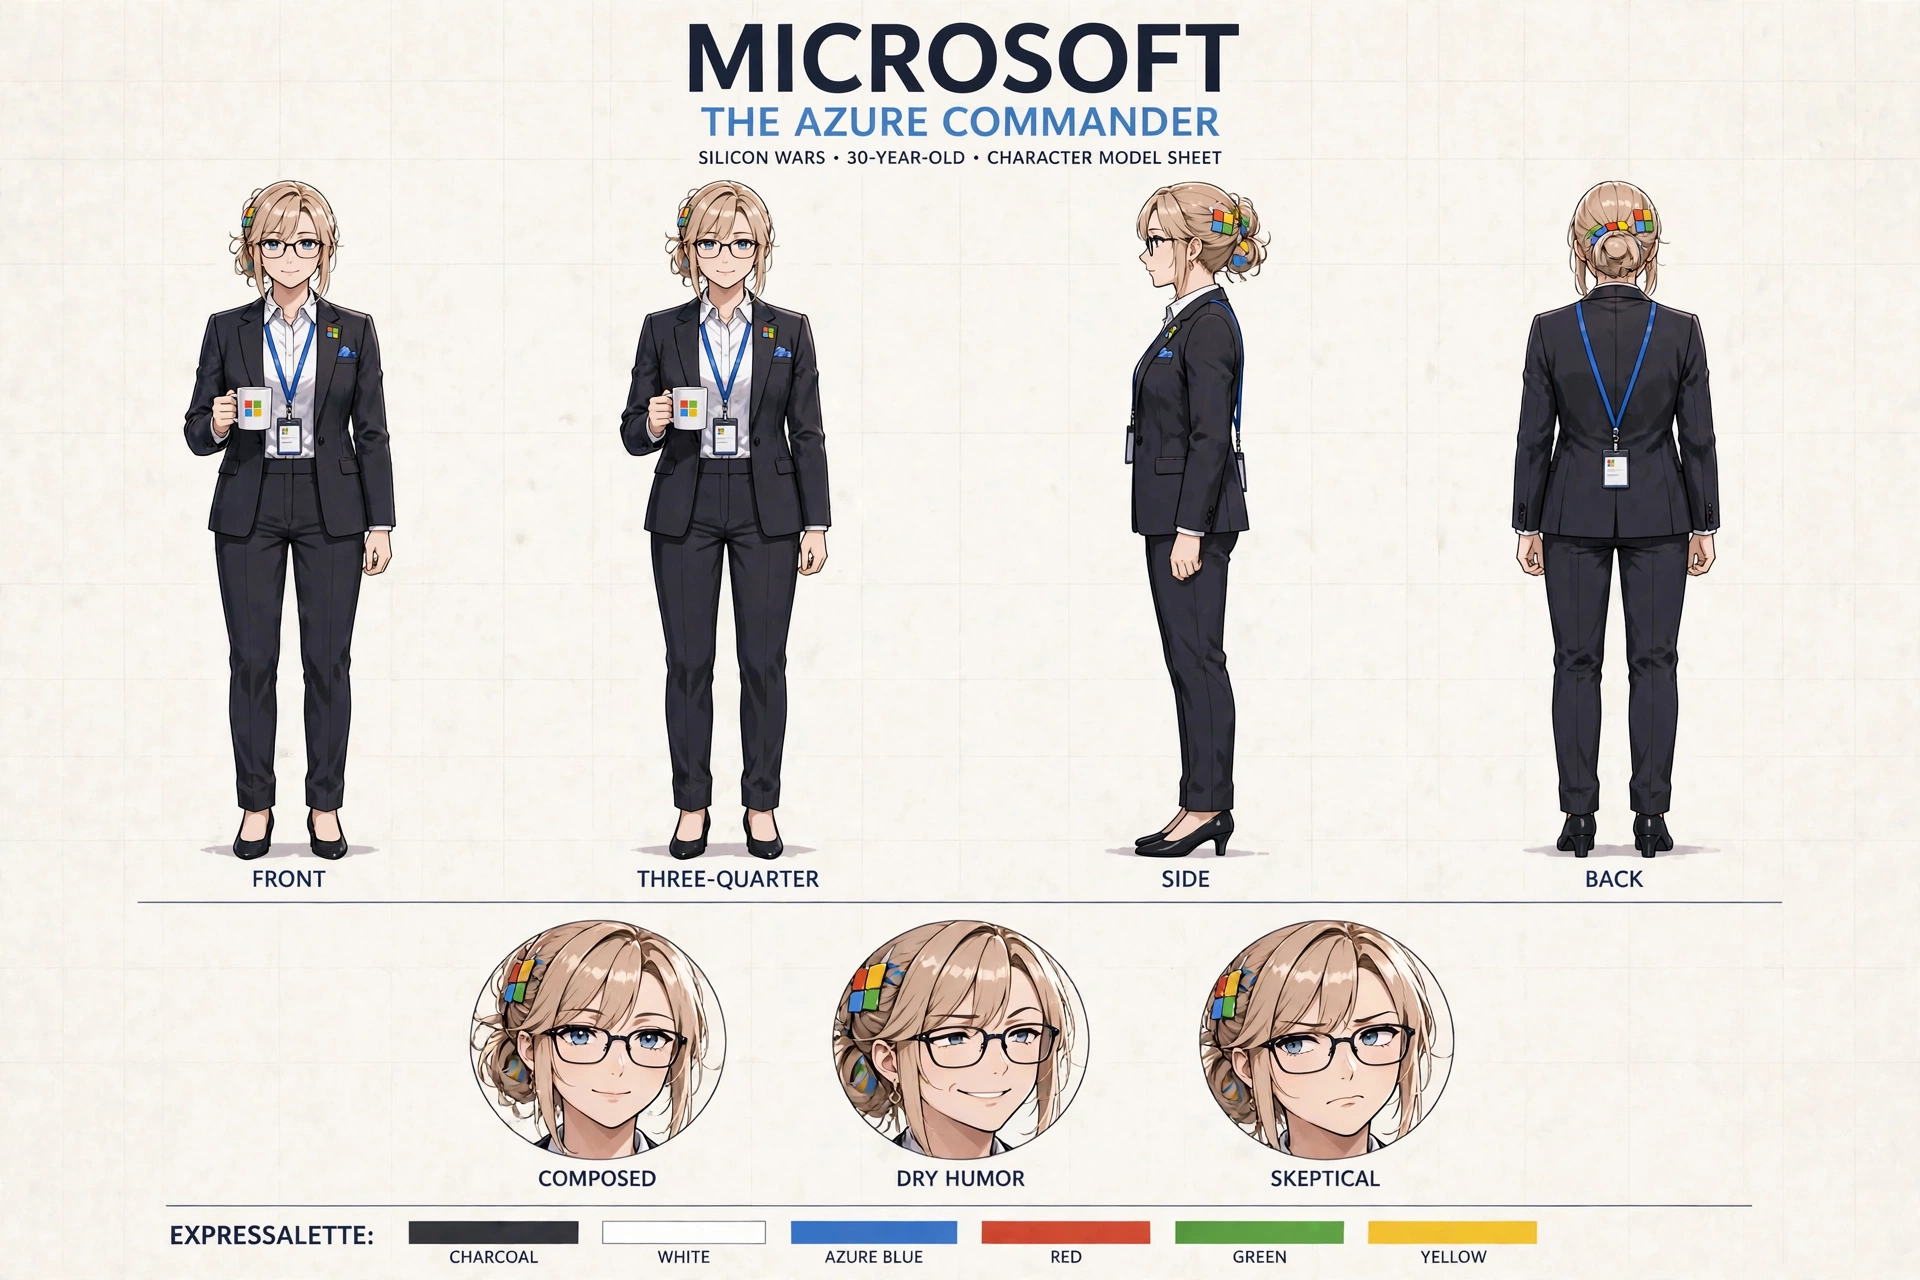
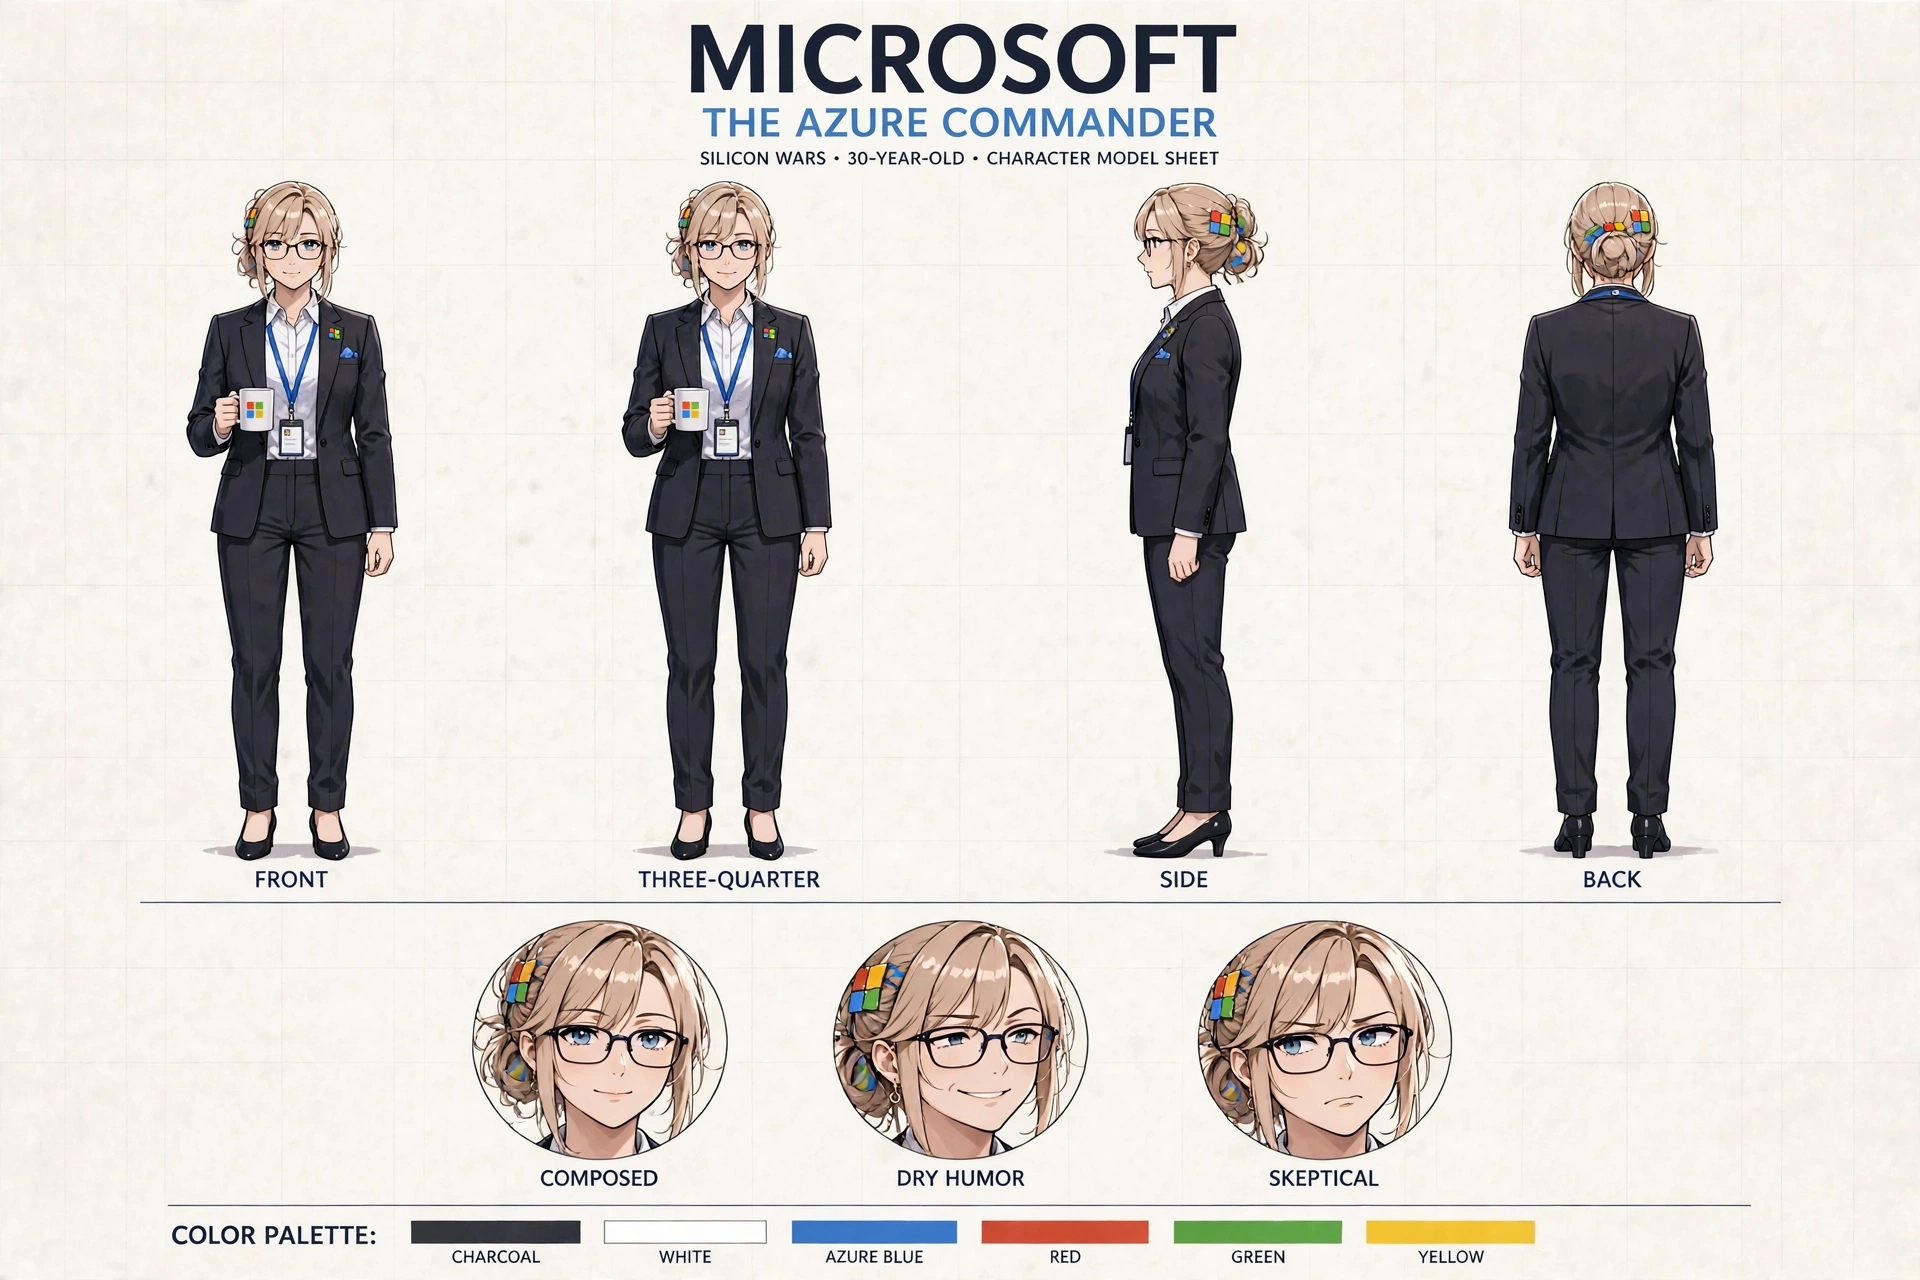
Fix Microsoft sheets: palette caption, back-view badge, expression glasses
Correction passes run at Horace's request:
- Model sheet: palette caption now reads COLOR PALETTE: (was garbled 'EXPRESSALETTE:') and the back view no longer shows the lanyard badge; the front and three-quarter lanyard, ID badge, pocket squares, and mugs are preserved exactly
- Expression sheet: black-rimmed glasses added to the 7 cells that lacked them (EYES CLOSED, CRYING, SURPRISED, FLUSTERED, SERIOUS, BLUSHING, EXCITED) — glasses now in all 12 cells; labels, order, and full-body figure unchanged
Both sheets verified after correction; prompt record and README updated to close the known-flaw notes.

diff --git a/characters/microsoft/character_sheet.prompt.md b/characters/microsoft/character_sheet.prompt.md
@@ -14,13 +14,13 @@ Create a polished portrait-oriented 2:3 anime character reference card for MICRO
 
 - Output [Illustrated model sheet](character_sheet.png) (1920 x 1280)
 - Input the revised reference card above
-- Known issues in the installed take (kept because it is the only take with the lanyard badge in the front views): the palette caption is garbled as "EXPRESSALETTE:", and the back view also shows the lanyard badge hanging at her back. A correction pass fixed the caption and the back view but dropped the lanyard and badge from the front views; a second correction pass could not be completed in the session. A future correction should fix the caption and back view while preserving the front-view lanyard.
+- Correction history: the first take had a garbled palette caption ("EXPRESSALETTE:") and the lanyard badge wrongly hanging in the back view. An early correction fixed those two but dropped the front-view lanyard. On 2026-11-07 Horace asked for correction passes for both flaws; the final correction (caption + back view fixed, front lanyard/badge explicitly preserved) produced the installed sheet, verified cell by cell.
 
 Create a polished landscape 3:2 anime character model sheet for MICROSOFT, THE AZURE COMMANDER, a 30-year-old woman in Silicon Wars. Image 1 is her approved reference card and the strict identity and costume blueprint. Preserve her mature composed face, blue eyes, neat black-rimmed rectangular glasses worn in every view, and light ash-blonde hair in a neat low bun with loose face-framing strands and four-color windowpane hair clips in red, green, blue, and yellow. Her full costume, identical in every view: a tailored dark charcoal suit with a fitted blazer, a small four-color windowpane pin on the lapel, an azure-blue pocket square, a crisp white dress shirt, a blue corporate lanyard with a rectangular employee ID name badge hanging at her chest in the front-facing views, matching dark suit trousers, and black low-heel pumps. In the FRONT and THREE-QUARTER views she holds a white coffee mug with the four-color windowpane logo in one hand at waist height. Put four complete standing turnarounds in a row on a pale neutral background, feet and hair fully in frame with comfortable outer margins: FRONT, THREE-QUARTER, SIDE, BACK, all at the same scale, with the same hairstyle, glasses, suit construction, and proportions in every angle. Below them, include three close-up expressions of the same face, glasses on: COMPOSED, DRY HUMOR, and SKEPTICAL, plus a small palette strip in charcoal, white, azure blue, red, green, and yellow. Use clear restrained labels, with only the text "MICROSOFT", "THE AZURE COMMANDER", "FRONT", "THREE-QUARTER", "SIDE", "BACK", "COMPOSED", "DRY HUMOR", and "SKEPTICAL". Crisp high-end manga linework and detailed cel shading matching Image 1. Keep the sheet free of other characters, scenery, and technical marketing copy.
 
 ## Expression sheet
 
-The built-in image generator used the [current model sheet](character_sheet.png) for identity and [Intel's expression sheet](../intel/expressions.png) for layout and acting. The output is [expressions.png](expressions.png) (1920 x 1280). All 12 labels are correct and in order. Known issue: her glasses are missing in 7 of the 12 cells (EYES CLOSED, CRYING, SURPRISED, FLUSTERED, SERIOUS, BLUSHING, EXCITED); she wears them in NEUTRAL, SMILING, ANGRY, SMUG, and OMINOUS (adjusting them) and in the full-body figure. A glasses correction pass is pending Horace's call.
+The built-in image generator used the [current model sheet](character_sheet.png) for identity and [Intel's expression sheet](../intel/expressions.png) for layout and acting. The output is [expressions.png](expressions.png) (1920 x 1280). All 12 labels are correct and in order. Correction history: the first take was missing her glasses in 7 of the 12 cells; a correction pass the same day (at Horace's request) added the same black-rimmed glasses to EYES CLOSED, CRYING, SURPRISED, FLUSTERED, SERIOUS, BLUSHING, and EXCITED, so the installed sheet has glasses in all 12 cells and the full-body figure.
 
 Create a production-ready colored manga EXPRESSION SHEET for MICROSOFT, THE AZURE COMMANDER, in Silicon Wars, a 30-year-old woman. Image 1 is this character's current model sheet. Follow it closely for the exact facial proportions, blue eyes, black-rimmed rectangular glasses worn in every cell, light ash-blonde hair in a neat low bun with four-color windowpane hair clips, outfit, colors and body build. Image 2 is a layout and acting reference only. Use its one-full-body-plus-twelve-faces structure and range of expressions. Her costume from Image 1: tailored dark charcoal suit with a fitted blazer, four-color windowpane lapel pin, azure-blue pocket square, white dress shirt, blue corporate lanyard with an employee ID name badge at her chest, dark suit trousers, and black low-heel pumps. Palette accents are azure blue and the four windowpane colors red, green, blue, and yellow. Her default demeanor is calm and commanding, with dry humor; in anger she gives a clipped executive reprimand; in excitement she shows rare launch-day enthusiasm; ominous is a quiet boardroom stare over the top of her glasses.
 

diff --git a/characters/microsoft/README.md b/characters/microsoft/README.md
@@ -43,8 +43,8 @@ OpenAI, businesses and developers
 > Great research. Can we deploy it securely by Monday?
 
 ## Character design assets
-- [Illustrated character model sheet](character_sheet.png) with turnarounds, three expressions, and palette. Two known flaws are recorded in the prompt file (garbled palette caption; badge also visible in the back view).
-- [Expression sheet](expressions.png) with a full-body pose and 12 facial expressions. Known flaw: glasses missing in 7 of the 12 cells; correction pending.
+- [Illustrated character model sheet](character_sheet.png) with turnarounds, three expressions, and palette.
+- [Expression sheet](expressions.png) with a full-body pose and 12 facial expressions, glasses in every cell.
 - [Painted reference card](reference_card.jpg) — revised 2026-11-07 from the original group-datasheet crop at full size, as a 30-year-old, with glasses, suit, corporate name tag, and coffee mug.
 - [Model sheet and reference card prompts](character_sheet.prompt.md).
 - [Continuity lock](continuity.yaml).
